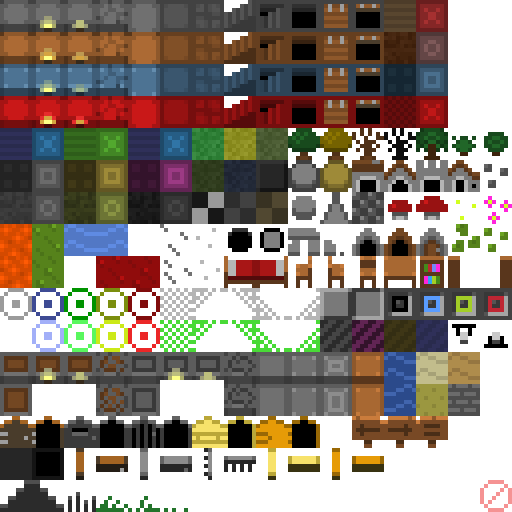
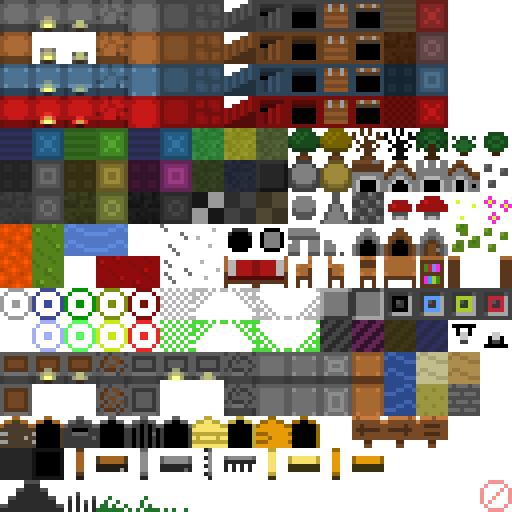
Add torches back in.

Changed region(s): [[0.0625, 0.0625, 0.1875, 0.125]]

diff --git a/json/tiles.js b/json/tiles.js
@@ -37,7 +37,7 @@ var getEntityDefs = function() {
     "cellStairsUp"        : { type: "Cell", sprite: "spriteStairsUp"       , uiName: "Stairs up",        passable : true },
     "cellWallH"           : { type: "Cell", sprite: "smartWall"            , uiName: "Wall H",           passable : false },
     "cellWallHCrumbled"   : { type: "Cell", sprite: "smartWall"            , uiName: "Wall H Crumbled",  passable : false },
-    "cellWallHTorch"      : { type: "Cell", sprite: "smartWall"            , uiName: "Wall H Torch",     passable : false },
+    "cellWallHTorch"      : { type: "Cell", sprite: "smartWall"            , uiName: "Wall H Torch",     passable : false,  decoration: "spriteWallHTorch" },
     "cellWallV"           : { type: "Cell", sprite: "smartWall"            , uiName: "Wall V",           passable : false },
     "cellWater"           : { type: "Cell", sprite: "spriteWater"          , uiName: "Water",            passable : true },
     "cellLava"            : { type: "Cell", sprite: "spriteLava"           , uiName: "Lava",             passable : true },
@@ -52,7 +52,7 @@ var getEntityDefs = function() {
     },
 
     "spriteWallH"           : { type : "Sprite", tileset : "tileset_env", start_x:  0, start_y: 0, frames: 1 },
-    "spriteWallHTorch"      : { type : "Sprite", tileset : "tileset_env", start_x:  1, start_y: 0, frames: 2 },
+    "spriteWallHTorch"      : { type : "Sprite", tileset : "tileset_env", start_x:  1, start_y: 1, frames: 2 },
     "spriteWallHCrumbled"   : { type : "Sprite", tileset : "tileset_env", start_x:  3, start_y: 0, frames: 1 },
     "spriteWallV"           : { type : "Sprite", tileset : "tileset_env", start_x:  4, start_y: 0, frames: 1 },
     "spriteFloorA"          : { type : "Sprite", tileset : "tileset_env", start_x:  5, start_y: 0, frames: 1 },
@@ -71,7 +71,6 @@ var getEntityDefs = function() {
     "spriteLava"            : { type : "Sprite", tileset : "tileset_env", start_x:  3, start_y: 8, frames: 2 },
     "spriteDoor"            : { type : "Sprite", tileset : "tileset_env", start_x:  0, start_y:13, frames: 1 },
     "spriteCancel"          : { type : "Sprite", tileset : "tileset_env", start_x: 15, start_y:15, frames: 1 },
-
 
     "tileset_char" : {
       type : "tileset",
@@ -123,8 +122,8 @@ var getEntityDefs = function() {
       tile_width: 8,
       tile_height: 8,
     },
-    "smartWall"             : { type : "SmartSprite", 
-                                tileset : "tileset_smart", 
+    "smartWall"             : { type : "SmartSprite",
+                                tileset : "tileset_smart",
                                 cases : [
                                   { x: 0, y: 0},//0
                                   { x: 1, y: 0},//1
@@ -134,5 +133,6 @@ var getEntityDefs = function() {
                                   { x: 5, y: 0},//5
                                 ]
                               }
+
   };
 }

diff --git a/lootgrab/render.js b/lootgrab/render.js
@@ -32,14 +32,14 @@ function Sprite(world, tile_def) {
 
   var that = this;
   if(tile_def === undefined)
-    throw "Tile def could not be found!"
+    throw "Tile def could not be found!";
 
-  var tileset_def = world.getDef(tile_def.tileset)
+  var tileset_def = world.getDef(tile_def.tileset);
   if(tileset_def === undefined)
-    throw "Tileset could not be found"
+    throw "Tileset could not be found";
 
   this.tileset_def = tileset_def;
-  this.tile_def = tile_def
+  this.tile_def = tile_def;
   var img = g_imageDB[tileset_def.image];
   if(!img) {
     img = new Image();
@@ -77,8 +77,8 @@ Sprite.prototype.draw = function(ctx, x,y,w,h) {
     return;
   }
 
-  var tileWidth = 32;
-  var tileHeight = 32;
+  var tileWidth = this.tileset_def.tile_width;
+  var tileHeight = this.tileset_def.tile_height;
   var tx = tileWidth * this.tile_def.start_x;
   var ty = tileHeight * this.tile_def.start_y;
   tx += this._cur_frame * tileWidth;
@@ -90,7 +90,7 @@ Sprite.prototype.draw = function(ctx, x,y,w,h) {
                   x,y,w,h);
   } catch(e) {
     if(this.error_printed===undefined) {
-      tdl.log("problem with image " + this.entDefID);     
+      tdl.log("problem with image " + this.entDefID);
       this.error_printed = true;
       tdl.log("img.src = ", this.img.src);
       tdl.log("srcx, srcy = ", tx, ty);
@@ -137,13 +137,13 @@ Render.prototype.draw = function() {
 
   // draw the hero's path
   w.hero.drawPath(ctx, cellWidth, cellHeight);
-  
+
   // Render foreground actors.
   for(var i = 0, actor; actor = w.actors[i]; ++i) {
     if (!actor.isDead() && !actor.renderBackground)
       actor.draw(ctx, cellWidth, cellHeight);
   }
-  
+
   if(DEBUG)
     w.draw_dbg(ctx);
 }

diff --git a/lootgrab/world.js b/lootgrab/world.js
@@ -9,18 +9,28 @@ function Cell(world,def,x,y) {
 }
 
 Cell.prototype.setType = function(def) {
-  this.ground_ent = this.world.newEntity(def.sprite)
+  this.ground_ent = this.world.newEntity(def.sprite);
   if(this.ground_ent === undefined)
-    throw "Cell.setType() could instantiate a ground_ent by using:" + def.sprite
+    throw "Cell.setType() could instantiate a ground_ent by using:" + def.sprite;
+
+  if(def.decoration) {
+    this.decoration = this.world.newEntity(def.decoration);
+    if(!this.decoration)
+      throw "Cell.setType() could not instantiate a decoration using: " + def.decoration;
+  }
+
   this.passable = 'passable' in def ? def.passable : true;
-}
+};
 
 Cell.prototype.draw = function(ctx, x, y, w, h) {
   this.ground_ent.draw(ctx,x,y,w,h);
-}
+  if(this.decoration) {
+    this.decoration.draw(ctx,x,y,w,h);
+  }
+};
 
 Cell.prototype.update = function(ts) {
-}
+};
 
 
 ///////////////////////////////////////////////////////////////////////////
